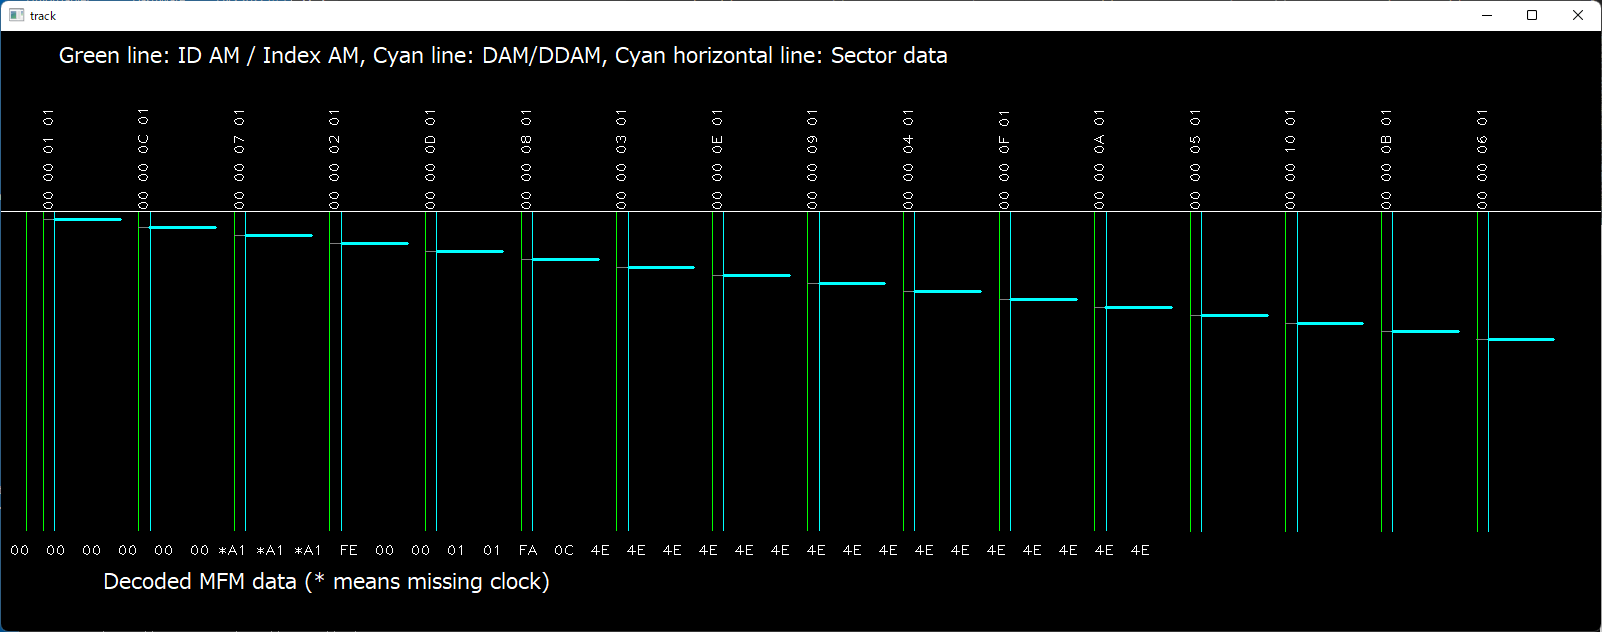
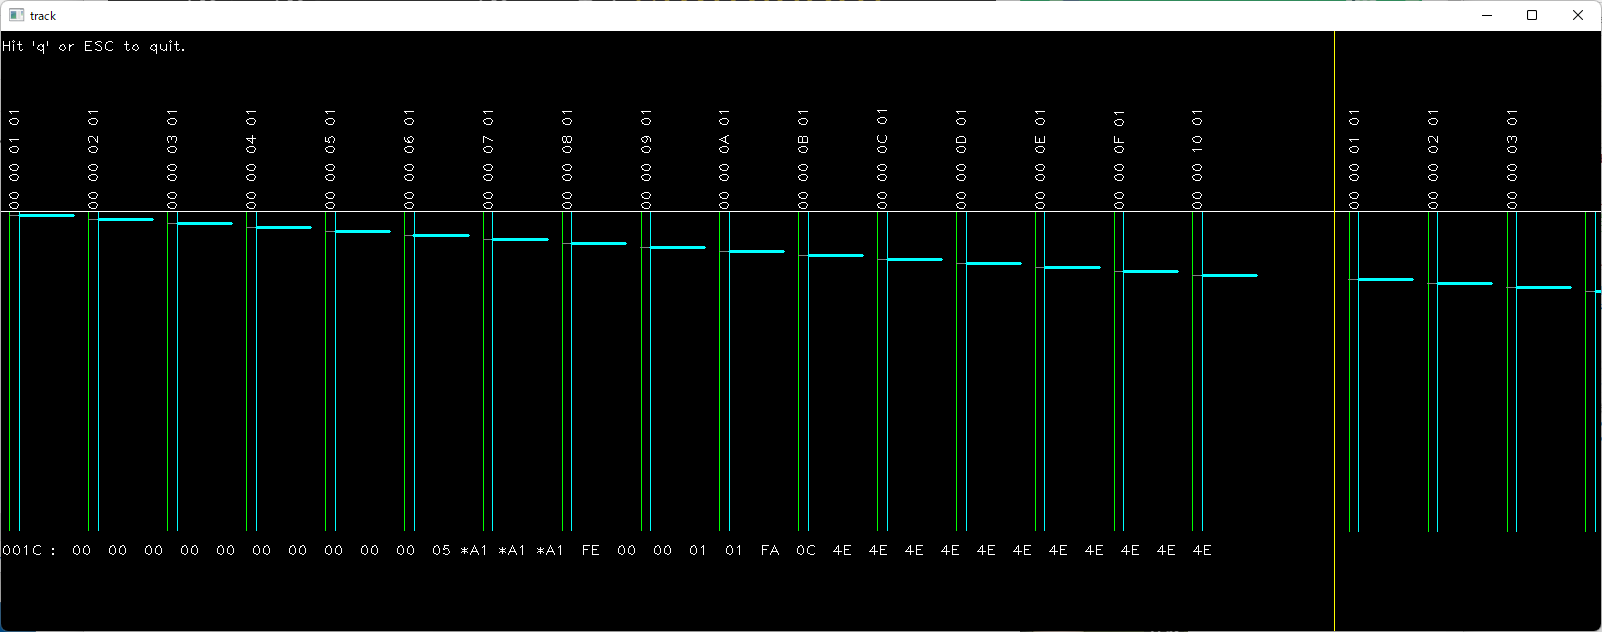
Improved track visualizer in bs_inspect.py
- ID-CRC error support
- Data CRC error support
- RNF error support

diff --git a/bs_inspect.py b/bs_inspect.py
@@ -11,6 +11,7 @@ from floppylib.bitstream import bitstream
 from floppylib.dataseparator import data_separator
 from floppylib.formatparserIBM import FormatParserIBM
 from floppylib.d77image import d77_image
+from floppylib.crc import CCITT_CRC
 
 def putTextVert(img:np.array, text:str, org, fontFace, fontScale, color, thickness=1, lineType=8, bottomLeftOrigin=False):
     size, base_line = cv2.getTextSize(text, fontFace, fontScale, thickness)
@@ -262,14 +263,26 @@ def find_address_marks(mfm_buf, mc_buf, mfm_pos):
     am_list = []
     am_pos = []
     am_mfm_pos = []
+    am_crc = []
     prev_mc = False
+    crcgen = CCITT_CRC()
     for pos, (dt, mc) in enumerate(zip(mfm_buf, mc_buf)):
         if prev_mc == True and mc == False and dt & 0xf8 == 0xf8:
             am_pos.append(pos)
             am_list.append(mfm_buf[pos : pos + 8])     # extract 8 bytes from the AM
             am_mfm_pos.append(mfm_pos[pos])
+            if dt >= 0xfc:      # Check ID CRC
+                crcgen.reset()
+                crcgen.data(mfm_buf[pos : pos + 1 + 4 + 2])
+                crcval = crcgen.get()
+                if crcval == 0:
+                    am_crc.append(1)  # CRC OK
+                else:
+                    am_crc.append(0) # CRC Error
+            else:
+                am_crc.append(-1)
         prev_mc = mc
-    return (am_list, am_pos, am_mfm_pos)
+    return (am_list, am_pos, am_mfm_pos, am_crc)
 
 def find_sector_pair(am_list, am_pos_list):
     body_size_table = [ 128, 256, 512, 1024 ]
@@ -298,7 +311,7 @@ def visualize_track(bit_stream, spin_speed, args):
     global mouse_x, mouse_y
     parser = FormatParserIBM(bit_stream, clk_spd=args.clk_spd, spin_spd=spin_speed, high_gain=args.high_gain, low_gain=args.low_gain, log_level=args.log_level)
     mfm_buf, mc_buf, mfm_pos = parser.read_track()
-    am_list, am_pos, am_mfm_pos = find_address_marks(mfm_buf, mc_buf, mfm_pos)
+    am_list, am_pos, am_mfm_pos, am_crc = find_address_marks(mfm_buf, mc_buf, mfm_pos)
     sect_pairs = find_sector_pair(am_list, am_pos)
 
     canvas_size = (1600, 600)
@@ -312,14 +325,15 @@ def visualize_track(bit_stream, spin_speed, args):
     max_sect = 80
 
     # Draw address marks
-    for am, pos in zip(am_list, am_pos):
+    for am, pos, crc in zip(am_list, am_pos, am_crc):
         x = int(pos*pos2x)
         col = (0,255,0) if am[0] & 0xfc == 0xfc else (255,255,0)
         y = bottom_line + max_sect * sect_pitch_y
         cv2.line(canvas, (x, bottom_line), (x, y), col, 1)
-        if am[0] > 0xfc:
+        if am[0] >= 0xfc:
             id_text = f'{am[1]:02X} {am[2]:02X} {am[3]:02X} {am[4]:02X} '
-            putTextVert(canvas, id_text, (x, bottom_line), cv2.FONT_HERSHEY_PLAIN, 1, (255,255,255), 1)
+            col = (255,255,255) if crc == 1 else (0,0,255)
+            putTextVert(canvas, id_text, (x, bottom_line), cv2.FONT_HERSHEY_PLAIN, 1, col, 1)
 
     # Draw sector pairs
     sect_count = 1
@@ -331,15 +345,36 @@ def visualize_track(bit_stream, spin_speed, args):
         am1_mfm_x = int(am1_mfm_pos * mfm2x)
         y = bottom_line + sect_count * sect_pitch_y
         cv2.line(canvas, (am0_mfm_x, y), (am1_mfm_x, y), (128,128,128), 1)
+
+        # Data CRC test by reading the sector
+        sect_num = am_list[am0idx][3]  # sector number ([AM, C, H, R, N])
+        status = parser.read_sector(sect_num, am0_mfm_pos - int((args.clk_spd/args.bit_rate) * 8 * 2))
+        sts_crc = True if status[1] == False else False     # Data CRC - memo: This loop is for paired AM that should have a sector body. No RNF should occur. 
         # Sector body
         mfm_idx = am_pos[am1idx] + sect_size
+        if sts_crc == True:
+            col = (255,0,255)
+        else:
+            col = (255,255,0)
         if len(mfm_pos) > mfm_idx:
             sect_body_end_mfm_pos = mfm_pos[am_pos[am1idx] + sect_size]
         else:
             sect_body_end_mfm_pos = len(bit_stream)
         sect_body_end_x = int(sect_body_end_mfm_pos * mfm2x)
-        cv2.line(canvas, (am1_mfm_x, y), (sect_body_end_x, y), (255,255,0), 2)
+        cv2.line(canvas, (am1_mfm_x, y), (sect_body_end_x, y), col, 2)
         sect_count += 1
+
+    paird_am_list = []
+    for pair_indices, sect_size in sect_pairs:
+        paird_am_list.append(pair_indices[0])
+        paird_am_list.append(pair_indices[1])
+    for am_idx in range(len(am_list)):
+        if am_idx not in paird_am_list:
+            if am_list[am_idx][0] & 0xfc >= 0xfc:
+                x = int(am_mfm_pos[am_idx] * mfm2x)
+                y = int(bottom_line + sect_count * sect_pitch_y)
+                cv2.drawMarker(canvas, (x, y), (0, 0, 255), cv2.MARKER_TILTED_CROSS, 8, 2)
+                sect_count += 1
 
     cv2.line(canvas, (0, bottom_line), (canvas_size[0], bottom_line), (255,255,255), 1)
     cv2.line(canvas, (index_hole_x, 0), (index_hole_x, canvas_size[1]), (0,255,255), 1)
@@ -351,9 +386,17 @@ def visualize_track(bit_stream, spin_speed, args):
     key = 0
     last_text_size = [0,0]
     last_text_base_line = 0
+    cv2.putText(canvas, 'Hit \'q\' or ESC to quit.', (0,20), cv2.FONT_HERSHEY_PLAIN, 1, (255,255,255), 1)
+
+    print('Red ID               : ID CRC Error')
+    print('Green virtical line  : ID AM / Index AM')
+    print('Cyan virtical line   : DAM / DDAM')
+    print('Red cross mark       : Record not found error')
+    print('Yellow virtical line : Index hole')
+
     while key != 27 and key != ord('q'):
         pos = int((mouse_x * len(mfm_buf)) / canvas_size[0])
-        dump_data = ''
+        dump_data = f'{pos:04X} : '
         for ofst in range(32):
             if pos + ofst < len(mfm_buf):
                 mc_str = '*' if mc_buf[pos + ofst] else ' '
@@ -364,7 +407,7 @@ def visualize_track(bit_stream, spin_speed, args):
         cv2.putText(canvas, dump_data, (0, y + 24), cv2.FONT_HERSHEY_PLAIN, 1, (255,255,255), 1)
         last_text_size, last_text_base_line = cv2.getTextSize(dump_data, cv2.FONT_HERSHEY_PLAIN, 1, 1)
         cv2.imshow(canvas_name, canvas)
-        key = cv2.waitKey(30)
+        key = cv2.waitKey(100)
 
 
 def main(args):

diff --git a/README.md b/README.md
@@ -103,6 +103,13 @@ You can check the pulse pitch fluctuation throughout a track with the pulse pitc
 ### Track visualizer  
 You can check the address marks and sector body overlap status with this feature. The entire track data is shown in the window. The yellow vertical line indicates the position of the index hole (it appears when you capture the track data with --read_overlap option). This feature can show the decoded MFM data at the point of the mouse cursor.   
 
+* Legend:  
+	* Red ID               : ID CRC Error
+	* Green virtical line  : ID AM / Index AM
+	* Cyan virtical line   : DAM / DDAM
+	* Red cross mark       : Record not found error
+	* Yellow virtical line : Index hole  
+<br>  
 * Example of a normal track  
 ![normal](./resources/track_visualizer_normal.png)  
 
